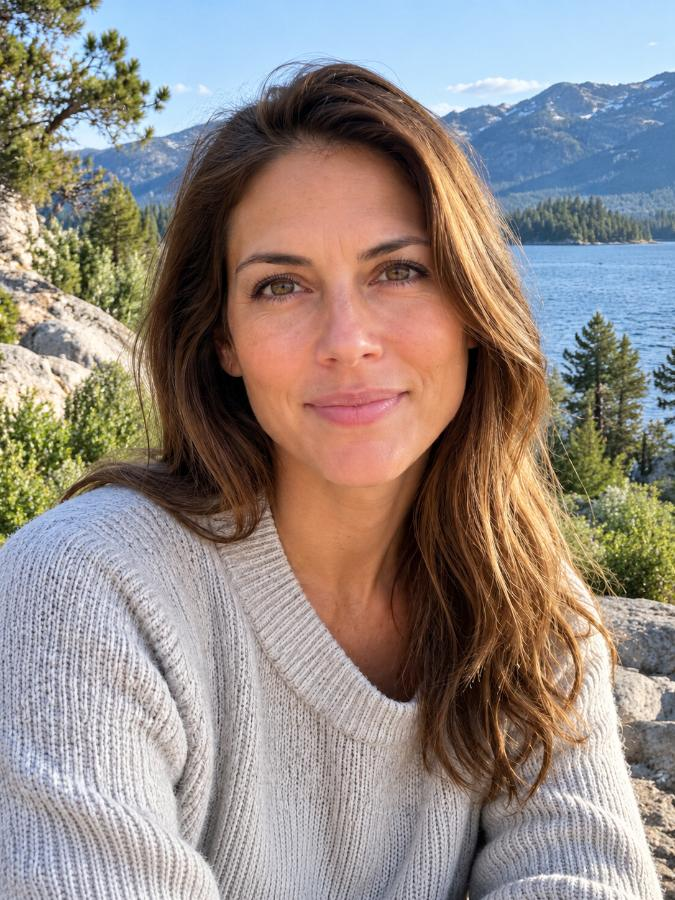
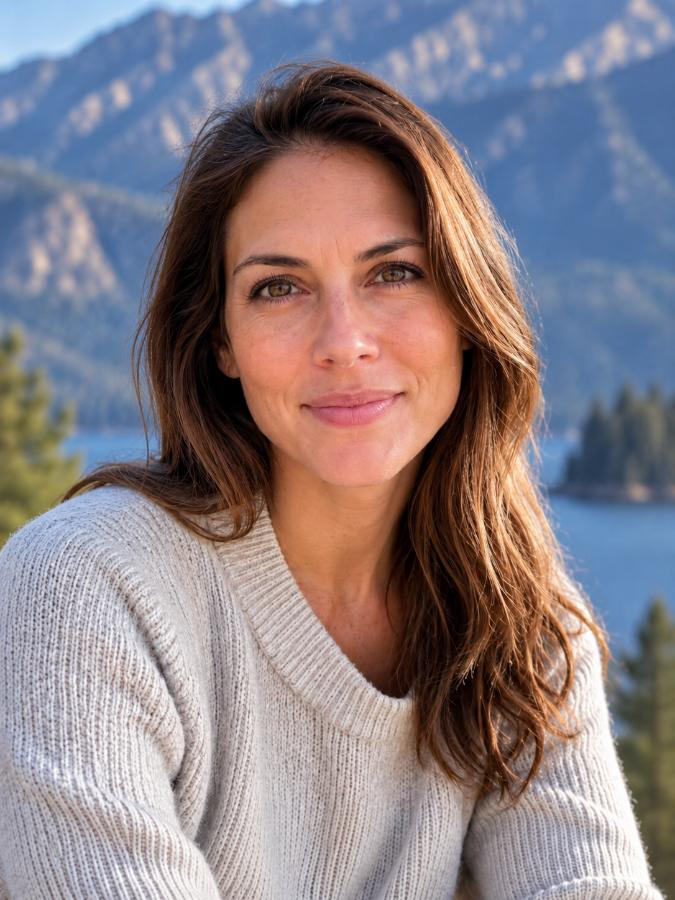
Portrait variation set: both axes now hold
Second round. The set works, and the technique is proven.

The aperture row was already good and is now complete: ap-deep arrived with the
framing matched, so all three keep her the same size and position while the
background goes from fully dissolved, through readable, to crisp. Face-height
spread across the row is 1.08x.

The focal row is the one that failed last round by cropping instead of moving.
The regenerated wide and long versions fixed the backgrounds — small and distant
at the wide end, mountains looming close at the long end — but her size still
drifted 1.24x across the row, mostly because fl-norm was left over from the
first round and framed wider than the two new ones.

Rather than another generation round, the ingest now applies an optional
crops.json. Cropping in rescales subject and background together, so it corrects
the framing without touching the ratio between them, which is the thing the row
exists to demonstrate; it only ever crops in, so nothing is invented at the
edges. With fl-wide at 1.14 and fl-norm at 1.28 the spread falls from 1.24x to
1.05x, and the backgrounds still read distant-to-looming.

variants-crops.json records the factors used, so the set can be rebuilt from the
originals rather than being a one-off.

Measured with a skin-tone face detector, which is noisy enough that its width
readings are unusable — it cannot separate her from a cream sweater. The heights
[…]

diff --git a/stops/app/js/variants.js b/stops/app/js/variants.js
@@ -6,7 +6,8 @@ export const VARIANTS = {
   "portrait": {
     "ap": [
       "wide",
-      "mid"
+      "mid",
+      "deep"
     ],
     "fl": [
       "wide",

diff --git a/stops/VARIANTS.md b/stops/VARIANTS.md
@@ -113,6 +113,26 @@ The first validates the names, rescales everything the same way, and writes the
 manifest. The second writes `variant-sheet.png` — each set laid out side by side
 at the width it will actually be seen at on a phone.
 
+### 4b. If the subject drifts in size, normalise it
+
+A model will hold the subject's size only roughly across the three focal
+lengths, and the set's whole claim is that the subject does not change. Put a
+`crops.json` next to the images to crop the framing back into line:
+
+```json
+{ "portrait": { "fl-wide": { "scale": 1.14, "cy": 0.52 },
+                "fl-norm": { "scale": 1.28, "cy": 0.52 } } }
+```
+
+`scale` crops in by that factor, `cy` is the vertical centre of the crop. The
+ingest applies it automatically and says so. This is legitimate rather than a
+fudge: cropping in rescales subject and background together, so it fixes the
+framing without touching the ratio between them — which is the thing being
+demonstrated. It only ever crops in, so nothing is invented at the edges.
+
+The committed `variants-crops.json` is the one used for portrait, kept so the
+set can be rebuilt from the originals. Copy it into your source folder.
+
 ### 5. Judge it — this is the step that matters
 
 Open `variant-sheet.png` and read along each row.
